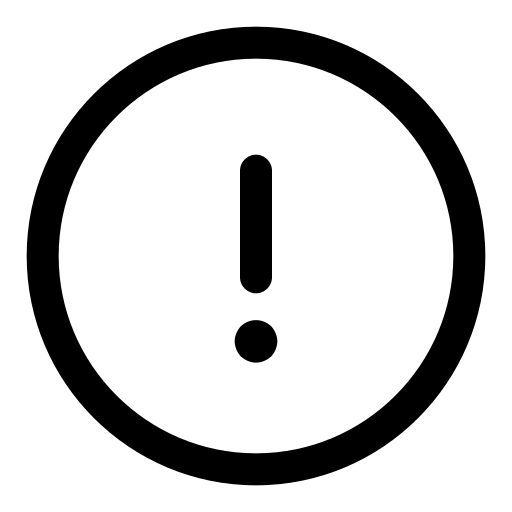
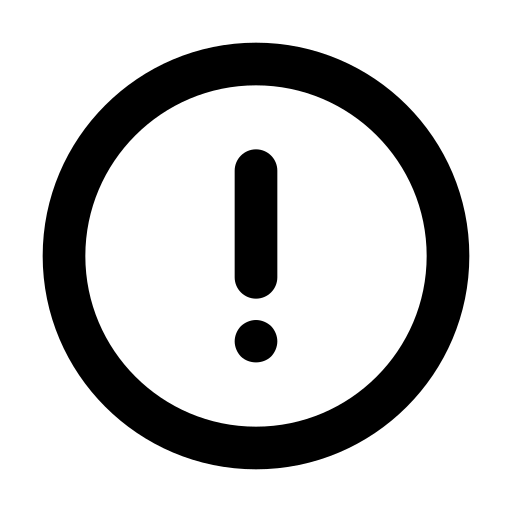
exclamation mark image

diff --git a/clientdashboard/account-details.html b/clientdashboard/account-details.html
@@ -86,7 +86,7 @@
           <div class="_dashboard_View">
     <div class="account_detailbox">
       <form class="row g-3">
-<h3> Users Details <span> <img src="images/exclamation.png" width="20"> </span> </h3>
+<h3> Users Details <span> <img src="images/exclamation.png" width="25"> </span> </h3>
   <div class="col-md-6">
     <label for="firstname" class="form-label"> First Name<span class="text-danger">* </span> </label>
     <input type="text" class="form-control" placeholder="First Name" required>
